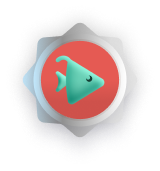
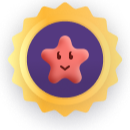
update images and add achievm box

diff --git a/src/components/YourCodeHere/ProfileSide.jsx b/src/components/YourCodeHere/ProfileSide.jsx
@@ -1,4 +1,9 @@
 import diagram from "../../assets/images/profile/radar.png";
+import badge1 from "../../assets/images/profile/badge-1.png";
+import badge2 from "../../assets/images/profile/badge-2.png";
+import badge3 from "../../assets/images/profile/badge-3.png";
+import badge4 from "../../assets/images/profile/badge-4.png";
+
 const skillsList = [
   "DeFi",
   "Cryptography",
@@ -11,6 +16,16 @@ const skillsList = [
   "C/C++",
   "Zero Knowledge Proofs",
 ];
+const badges = [badge1, badge2, badge3, badge4];
+
+const ProfileDiagramHeader = () => (
+  <>
+    <h3 className="Profile__label">Cybersecurity / Smart Contract Auditor</h3>
+    <div className="Profile__diagram">
+      <img src={diagram} />
+    </div>
+  </>
+);
 const ProfileDiagramSkills = () => (
   <>
     <div className="Profile__side-header d-flex justify-content-between align-items-center">
@@ -26,18 +41,39 @@ const ProfileDiagramSkills = () => (
     </ul>
   </>
 );
+const ProfileDiagramBox = () => (
+  <div className="Profile__side-item">
+    <ProfileDiagramHeader />
+    <ProfileDiagramSkills />
+  </div>
+);
+const ProfileAchievementsHeader = () => (
+  <div className="Profile__achievements-header d-flex justify-content-between align-items-center">
+    <h3 className="Profile__label">Achievements</h3>
+    <span className="Profile__link">See All</span>
+  </div>
+);
+const ProfileAchievementsBadges = () => (
+  <ul className="Profile__side-badges d-flex align-items-center">
+    {badges.map((badge) => (
+      <li key={badge} className="Profile__side-badge">
+        <img src={badge} />
+      </li>
+    ))}
+  </ul>
+);
+const ProfileAchievementsBox = () => (
+  <div className="Profile__side-item">
+    <ProfileAchievementsHeader />
+    <ProfileAchievementsBadges />
+  </div>
+);
+
 export default function ProfileSide() {
   return (
     <div className="Profile__side">
-      <div className="Profile__side-item">
-        <h3 className="Profile__label">
-          Cybersecurity / Smart Contract Auditor
-        </h3>
-        <div className="Profile__diagram">
-          <img src={diagram} />
-        </div>
-        <ProfileDiagramSkills />
-      </div>
+      <ProfileDiagramBox />
+      <ProfileAchievementsBox />
     </div>
   );
 }

diff --git a/src/components/YourCodeHere/YourCodeHere.scss b/src/components/YourCodeHere/YourCodeHere.scss
@@ -373,12 +373,15 @@ $letterSpacing014: 0.014rem;
   max-width: 32%;
 }
 .Profile__side-item {
+  margin-bottom: 1.7rem;
   & .Profile__label {
     line-height: 150%;
+    margin-bottom: 0;
   }
   padding: 2.4rem;
   background-color: $remedy-Global--color-dark-3;
 }
+// DIAGRAM
 .Profile__diagram {
   margin: 3.4rem 0 3rem;
   img {
@@ -390,6 +393,9 @@ $letterSpacing014: 0.014rem;
 .Profile__side-header {
   font-size: 1.4rem;
   margin-bottom: 1.8rem;
+}
+.Profile__achievements-header {
+  margin-bottom: 2.4rem;
 }
 .Profile__side-skills {
   list-style: none;
@@ -404,4 +410,23 @@ $letterSpacing014: 0.014rem;
   line-height: 1;
   letter-spacing: 0.014rem;
   background-color: $remedy-Global--color-dark-2;
+}
+// ACHIEVEMENTS
+.Profile__achievements-header {
+}
+.Profile__side-badges {
+  margin: 0;
+  padding: 0 0 0 3.2rem;
+  list-style: none;
+}
+.Profile__side-badge {
+  flex: 0 0 6.4rem;
+  max-width: 6.4rem;
+  height: 6.4rem;
+  margin-left: -3rem;
+  img {
+    max-width: 100%;
+    height: auto;
+    object-fit: cover;
+  }
 }
